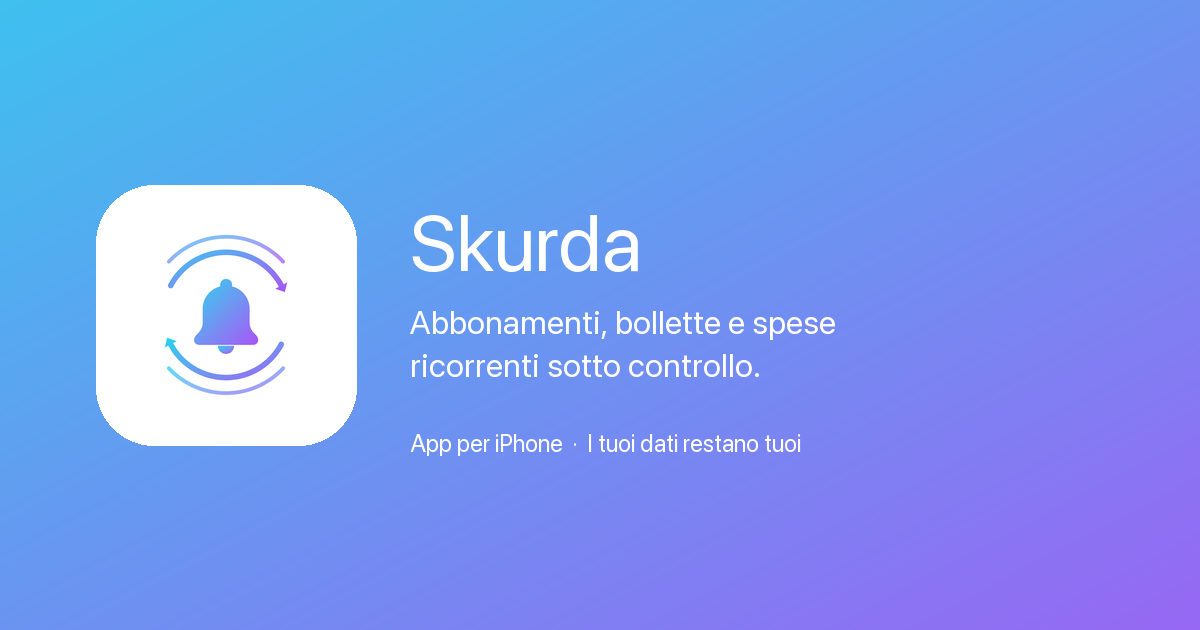
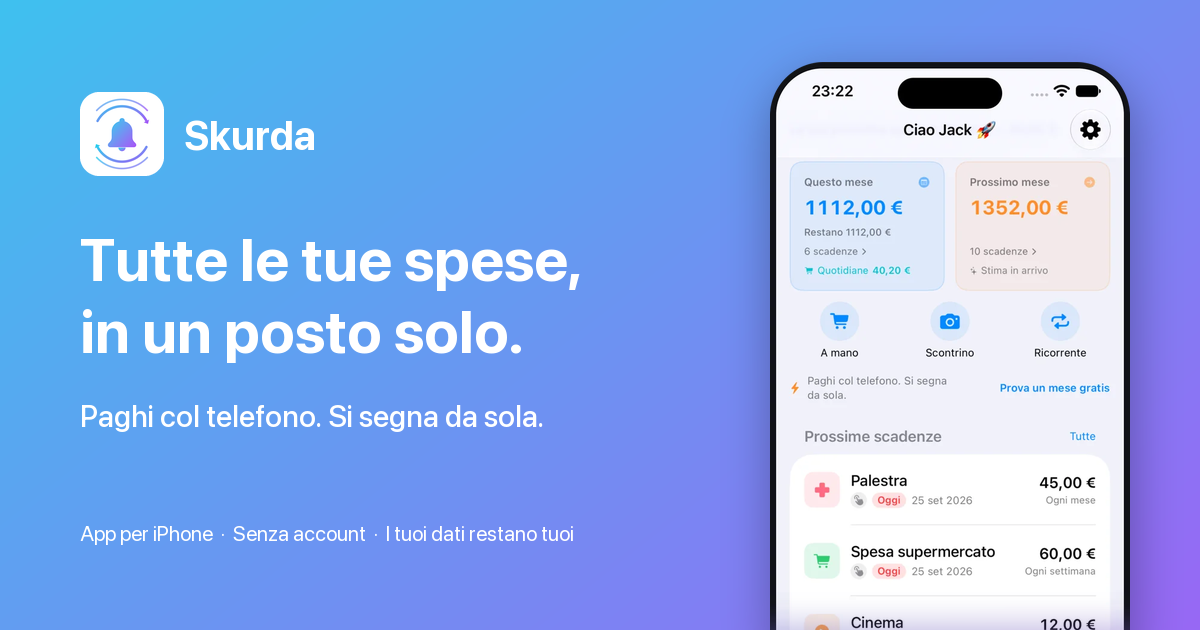
Nuova og-image con il titolo della 3.2, versione inglese separata
Icona, "Tutte le tue spese, in un posto solo.", "Paghi col telefono. Si
segna da sola." e la Home dagli screenshot dello Store. og-image-en.png
per landing inglese e reel.

diff --git a/spese-ricorrenti/en/index.html b/spese-ricorrenti/en/index.html
@@ -23,15 +23,15 @@
 <meta property="og:title" content="Skurda — Recurring and daily expenses on iPhone">
 <meta property="og:description" content="Subscriptions, bills and recurring expenses — and now everyday ones too, logged automatically, from a receipt, or by hand. Reminders before every due date and a savings report. Free for up to 10 recurring and 20 daily expenses a month, no account.">
 <meta property="og:url" content="https://dontknowif.github.io/spese-ricorrenti/en/">
-<meta property="og:image" content="https://dontknowif.github.io/spese-ricorrenti/og-image.png">
+<meta property="og:image" content="https://dontknowif.github.io/spese-ricorrenti/og-image-en.png">
 <meta property="og:image:width" content="1200">
 <meta property="og:image:height" content="630">
-<meta property="og:image:alt" content="The Skurda app icon next to the app name and the line: subscriptions, bills and due dates always under control.">
+<meta property="og:image:alt" content="The Skurda icon and the line: all your expenses, in one place. Pay with your phone, it logs itself. Beside it, the app's Home screen.">
 
 <meta name="twitter:card" content="summary_large_image">
 <meta name="twitter:title" content="Skurda — Recurring and daily expenses on iPhone">
 <meta name="twitter:description" content="Reminders before every due date, daily expenses logged automatically or from a receipt, and a savings report. Free for up to 10 recurring and 20 daily expenses a month, no account.">
-<meta name="twitter:image" content="https://dontknowif.github.io/spese-ricorrenti/og-image.png">
+<meta name="twitter:image" content="https://dontknowif.github.io/spese-ricorrenti/og-image-en.png">
 
 <link rel="icon" href="../favicon-32.png" sizes="32x32">
 <link rel="apple-touch-icon" href="../icon-180.png">
@@ -53,7 +53,7 @@
       "operatingSystem": "iOS 17.0 or later",
       "url": "https://dontknowif.github.io/spese-ricorrenti/en/",
       "image": "https://dontknowif.github.io/spese-ricorrenti/icon-512.png",
-      "screenshot": "https://dontknowif.github.io/spese-ricorrenti/og-image.png",
+      "screenshot": "https://dontknowif.github.io/spese-ricorrenti/og-image-en.png",
       "inLanguage": ["it", "en", "es", "fr", "de"],
       "description": "iPhone app that tracks recurring expenses such as subscriptions, bills, rent, insurance and taxes, and daily expenses — logged automatically when paying by phone, from a receipt photo, or by hand. It shows the monthly total, sends reminders before each due date and flags possible savings. Data stays on the device and in the user's own iCloud account: the developer runs no servers.",
       "featureList": [

diff --git a/spese-ricorrenti/index.html b/spese-ricorrenti/index.html
@@ -26,7 +26,7 @@
 <meta property="og:image" content="https://dontknowif.github.io/spese-ricorrenti/og-image.png">
 <meta property="og:image:width" content="1200">
 <meta property="og:image:height" content="630">
-<meta property="og:image:alt" content="Icona dell'app Skurda accanto al nome e alla frase: abbonamenti, bollette e scadenze sempre sotto controllo.">
+<meta property="og:image:alt" content="Icona di Skurda e la frase: tutte le tue spese, in un posto solo. Paghi col telefono, si segna da sola. Accanto, la Home dell'app.">
 
 <meta name="twitter:card" content="summary_large_image">
 <meta name="twitter:title" content="Skurda — Spese ricorrenti e quotidiane su iPhone">

diff --git a/spese-ricorrenti/reel.html b/spese-ricorrenti/reel.html
@@ -13,7 +13,7 @@
 <meta property="og:type" content="website">
 <meta property="og:title" content="Skurda — Feature reel">
 <meta property="og:description" content="A quick interactive tour of Skurda's features — tap or let it play.">
-<meta property="og:image" content="https://dontknowif.github.io/spese-ricorrenti/og-image.png">
+<meta property="og:image" content="https://dontknowif.github.io/spese-ricorrenti/og-image-en.png">
 <meta name="twitter:card" content="summary_large_image">
 <link rel="preconnect" href="https://fonts.googleapis.com">
 <link rel="preconnect" href="https://fonts.gstatic.com" crossorigin>

diff --git a/README.md b/README.md
@@ -50,7 +50,7 @@ legale, non solo di forma.
 /spese-ricorrenti/terms.html       Termini e condizioni, bilingue IT/EN
 /spese-ricorrenti/style.css        stile base, condiviso con le pagine legali
 /spese-ricorrenti/site.css         stile della sola landing
-/spese-ricorrenti/og-image.png     anteprima social 1200x630
+/spese-ricorrenti/og-image.png     anteprima social 1200x630 (IT; og-image-en.png per le pagine inglesi)
 /spese-ricorrenti/funzionalita.html  pagina funzionalità, IT/EN/ES/FR/DE — non indicizzata
 /spese-ricorrenti/automazione-wallet.html  guida all'automazione Wallet→Skurda, IT/EN/ES/FR/DE — non indicizzata
 /spese-ricorrenti/reel.html                reel interattivo di presentazione (EN, story-style, autoplay) — non indicizzata, per condivisione diretta (Reddit, social, stampa)
